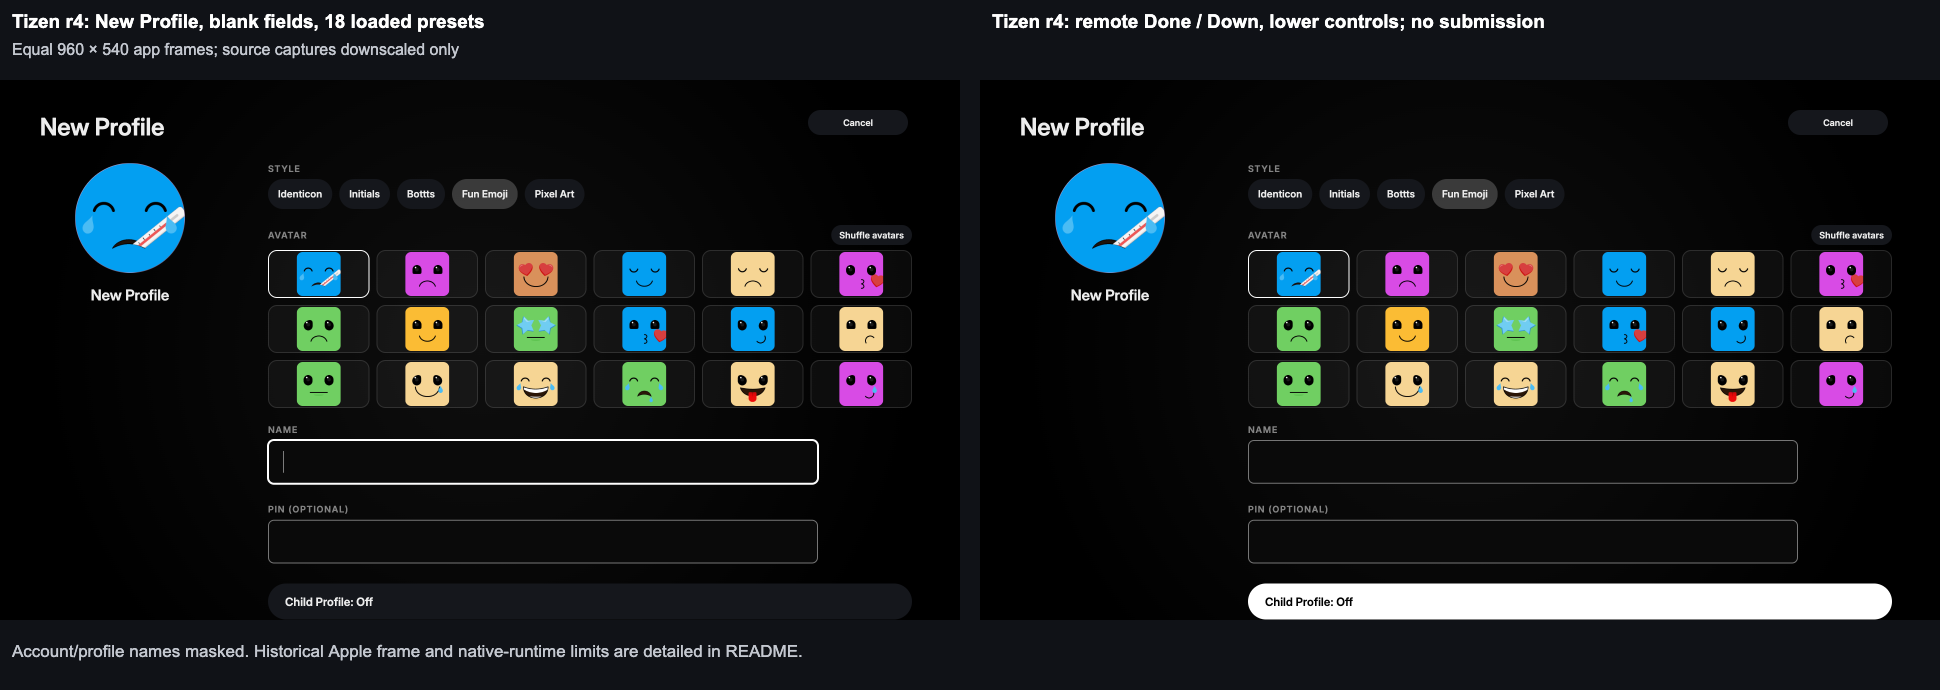
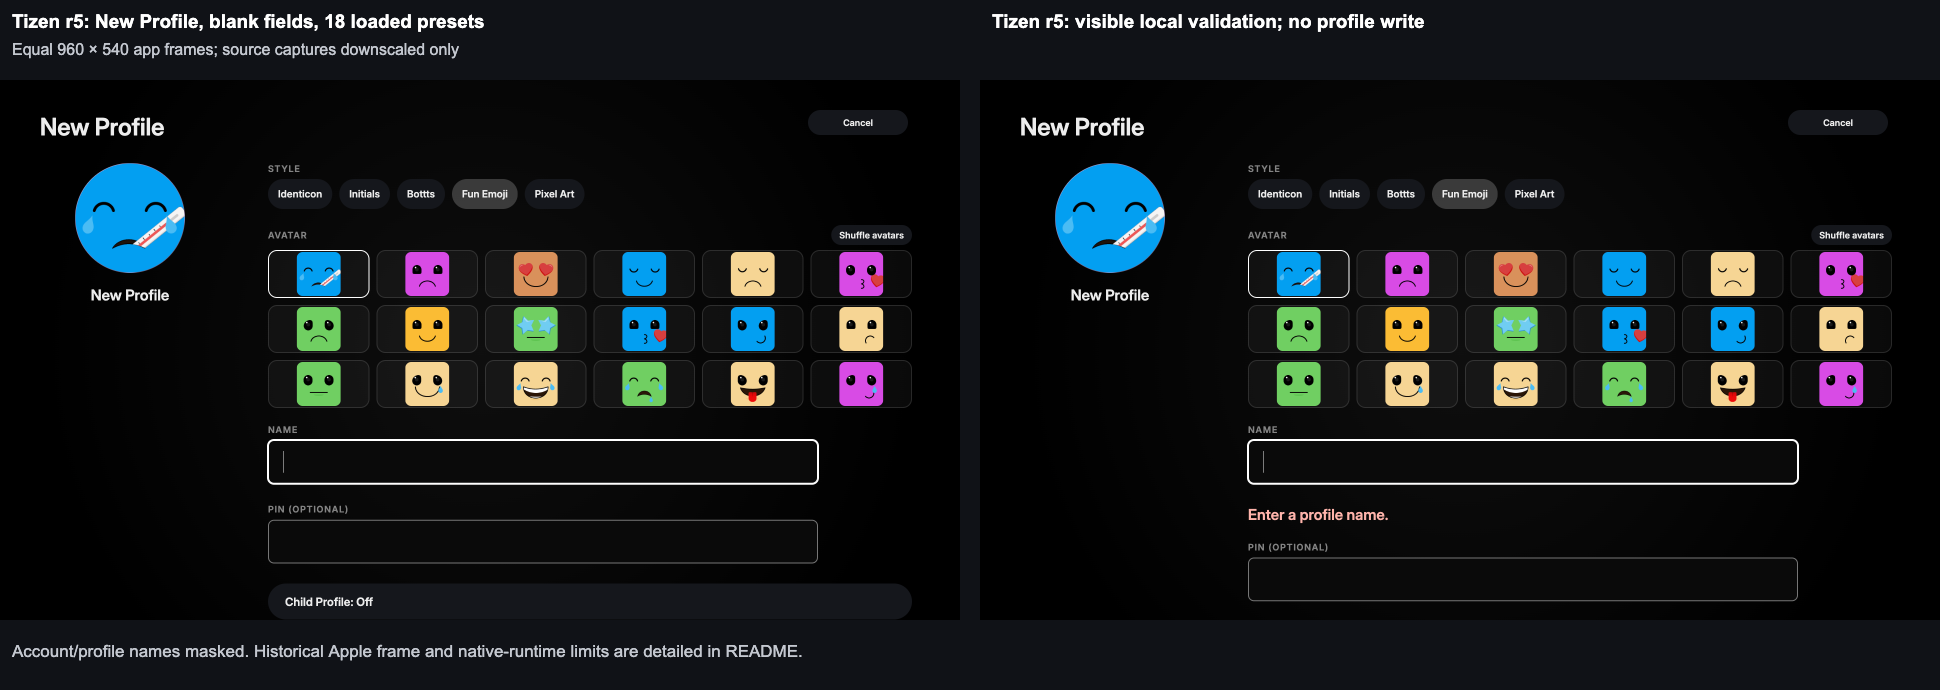
docs(profiles): refresh signed simulator evidence

Changed region(s): [[0.6186, 0.7913, 0.9897, 0.913], [0.5567, 0.0, 0.8041, 0.0609], [0.6186, 0.7304, 0.7423, 0.7609]]

diff --git a/docs/screenshots/96-profiles/README.md b/docs/screenshots/96-profiles/README.md
@@ -1,20 +1,20 @@
 # Profile picker and TV creation
 
-Issue #96, based on `f068d8d13b7741bd9183528367b27669d4434d02` plus the reviewed feature working tree.
-The screenshots show the signed r4 candidate, captured on 3 November 2026.
-They precede the subsequent validation-error placement, structured-rejection and construction-ownership corrections; final publication must refresh the signed package and recording after integration with current main.
+Issue #96, source commit `985960e3152dbc0b5e0eacfc56a79a8827df7130`, incorporating main `031d5f42935aec467997db4fb6ce4fa4a4d796bc`.
+The screenshots show the signed r5 package, captured on 3 November 2026 after the final error-handling and ownership corrections.
 They establish Samsung software-simulator rendering, not physical-Tizen acceptance or whole-authentication parity.
 
 ## Evidence
 
 | File | Content |
 | --- | --- |
-| `01-before-after.png` | Same current household before and after: PR130 signed r3 versus the signed profile r4 candidate. |
-| `02-apple-picker.png` | Historical Apple picker from 1 November, source `1a7ccee`, against current signed Tizen r4. |
-| `03-create-form.png` | Current Tizen form and remote Done/Down reaching lower controls, with blank fields and 18 loaded presets. Both panels are Tizen. |
-| `04-create-remote.mp4` | Four seconds of the r4 native simulator form: Done/Down and return to the blank name field after submission. Its error placement predates the correction described above. No account names or entered values appear. |
-| `runtime-r4.json` | Sanitized current runtime, loaded-resource hashes and picker geometry. |
-| `installed-assets-r4.sha256` | All 14 signed-archive file hashes, freshly compared with the simulator installation. |
+| `01-before-after.png` | Same current household before and after: PR130 signed r3 versus the signed profile r5 package. |
+| `02-apple-picker.png` | Historical Apple picker from 1 November, source `1a7ccee`, against current signed Tizen r5. |
+| `03-create-form.png` | Current Tizen form, blank fields and 18 loaded presets; local blank-name validation beside its focused input. Both panels are Tizen. |
+| `04-create-remote.mp4` | Four seconds of the r5 native simulator form: Done/Down, visible local validation and retained Name-field focus. No account names or entered values appear. |
+| `runtime-r5.json` | Sanitized current runtime, loaded-resource hashes and picker geometry. |
+| `recording-r5.json` | 32 native frames captured in 4001 ms, encoded at 8 fps; validation in view, Name focused and zero observed profile-write requests. |
+| `installed-assets-r5.sha256` | All 14 signed-archive file hashes, freshly compared with the simulator installation. |
 
 Each PNG contains two equal 960 × 540 app frames in a 1940 × 690 canvas.
 Samsung captures are native 1920 × 1080, displayed at 50%; the historical Apple 960 × 540 capture is displayed at 100% and is never upscaled.
@@ -24,9 +24,9 @@ Private originals and excluded captures are not committed.
 
 ## Package and runtime
 
[7 lines of base64/hex data omitted]
 All archive files matched the installed files, and CDP-loaded JavaScript/CSS matched the packaged resources.
 
@@ -54,10 +54,10 @@ Apple's account-to-TV-user caption has no equivalent in this client and is not f
 
 ## Verified behavior and remaining limits
 
-The current-source full behavior run recorded 563 native and 644 UI passes, with no failures or cancellations, including the later error handling and construction-ownership corrections.
+The integrated-source full behavior run recorded 564 native and 644 UI passes, with no failures or cancellations, including the error handling and construction-ownership corrections.
 It includes the Acknowledgements change, build and both typechecks.
 Focused profile checks cover 1–8 total tiles, footer return, reduced motion, image transparency/failure, PIN/lockout, creation scope, child restrictions, duplicate presses, uncertain writes, late replies and remembered-profile preservation.
-The native r4 run opened Add, loaded 18 presets, moved through fields with Done/Down, rejected a blank name locally and returned to Add on Back.
+The native r5 run opened Add, loaded 18 presets, moved through fields with Done/Down, rejected a blank name locally with the error visible and Name still focused, and returned to Add on Back.
 Successful creation, primary PIN management, bootstrap and late-response isolation are automated fake-server proof; no live profile was intentionally created or deleted.
 
 Fresh Apple TV interaction was unavailable: the device inventory exposed iPhones and iPads, with no Apple TV target.
@@ -71,4 +71,7 @@ The earlier Portrait full-suite cancellation remains under #122; later green run
 
 Captures containing the simulator's Exit prompt were excluded and retaken after dismissal.
 An initial resource-hash attempt lacked CDP Page enablement, and a second did not account for resource query strings; neither supplied acceptance evidence.
-The successful hash record above uses loaded resources and the exact signed r4 bytes.
+An initial r5 recording used separate raw-key and character Enter events and lost focus after validation.
+The verified run uses one trusted Enter key-down carrying its text followed by key-up; focus remained on Name before and after key-up, without an application change.
+The failed recording is excluded.
+The successful hash and recording records above use loaded resources and the exact signed r5 bytes.
